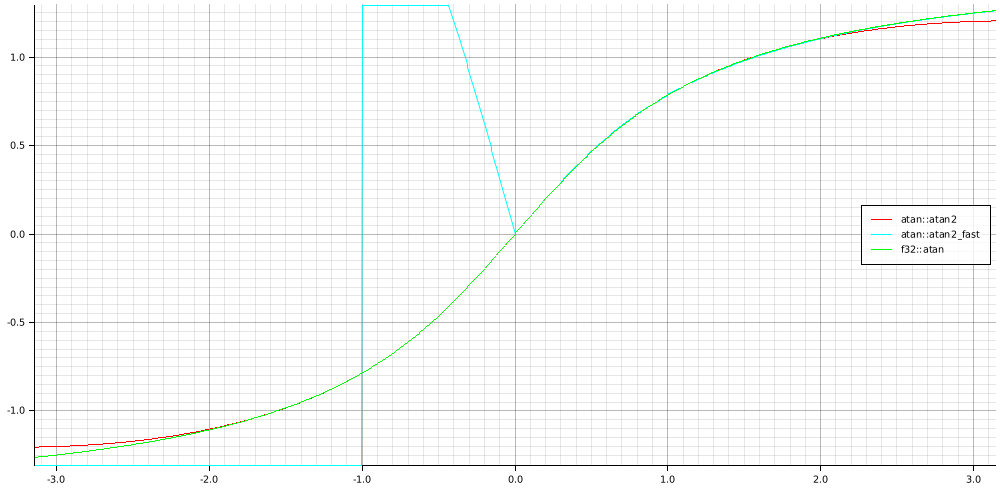
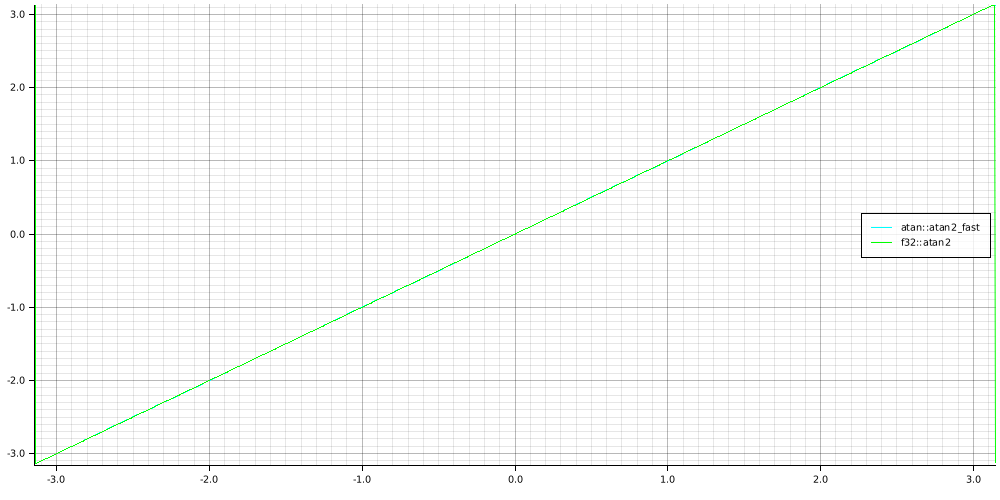
Corrected atan_fast implementation.

Changed region(s): [[0.0, 0.0, 1.0, 0.93]]

diff --git a/src/atan.rs b/src/atan.rs
@@ -138,8 +138,10 @@ pub fn atan2_fast<T>( y: T, x: T ) -> T
     let y_abs = y.abs();
     let x_abs = x.abs();
 
-    // Check which quadrant the result will land in.
+    let pi      = <T>::from_num( fixed::consts::PI );
+    let pi_half = <T>::from_num( fixed::consts::PI/2 );
 
+    // Check which quadrant the result will land in.
     if  y == 0
     {
         if  x.is_negative()
@@ -167,8 +169,7 @@ pub fn atan2_fast<T>( y: T, x: T ) -> T
             // Second octant.
             else
             {
-                let pi_half = <T>::from_num( fixed::consts::PI/2 );
-                return pi_half - atan_poly_2( y, x );
+                return pi_half -atan_poly_2( y, x );
             }
         }
         else
@@ -176,14 +177,12 @@ pub fn atan2_fast<T>( y: T, x: T ) -> T
             // Third octant.
             if T::from_num( 0.0 ) <= y_abs - x_abs
             {
-                let pi_half = <T>::from_num( fixed::consts::PI/2 );
                 return pi_half - atan_poly_2( y, x );
             }
             // Fourth octant.
             else
             {
-                let pi = <T>::from_num( fixed::consts::PI );
-                return super::sign(y)*pi*atan_poly_1( y, x );
+                return pi + atan_poly_1( y, x );
             }
         }
     }
@@ -198,14 +197,12 @@ pub fn atan2_fast<T>( y: T, x: T ) -> T
             // Fifth octant.
             if y_abs - x_abs < T::from_num( 0.0 )
             {
-                let pi = <T>::from_num( fixed::consts::PI );
-                return super::sign(y)*pi*atan_poly_1( y, x );
+                return atan_poly_1( y, x );
             }
             // Sixth octant.
             else
             {
-                let pi_half = <T>::from_num( fixed::consts::PI );
-                return - pi_half - atan_poly_2( y, x );
+                return - pi_half -atan_poly_2( y, x );
             }
         }
         else
@@ -213,13 +210,12 @@ pub fn atan2_fast<T>( y: T, x: T ) -> T
             // Seventh octant.
             if T::from_num( 0.0 ) <= y_abs - x_abs
             {
-                let pi_half = <T>::from_num( fixed::consts::PI );
-                return - pi_half - atan_poly_2( y, x );
+                return -pi_half - atan_poly_2( y, x );
             }
             // Eigth octant.
             else
             {
-                return atan_poly_1( y, x );
+                return -pi + atan_poly_1( y, x );
             }
         }
     }

diff --git a/tests/atan_comparison.rs b/tests/atan_comparison.rs
@@ -10,17 +10,17 @@ fn atan_comparison() -> Result<(), Box<dyn std::error::Error>>
     use fixed::FixedI32 as F;
     use fixed::types::extra::U20 as U;
     use std::f32::consts::PI as PI;
-
+    /*
     let atan2_series = LineSeries::new(
-        (-500..=500).map(|x| x as f32 *PI / 500.0).map(|x| (x, atan::atan2(F::<U>::from_num(x), F::<U>::from_num(1) ).to_num::<f32>() )),
+        (-500..=500).map(|x| x as f32 *PI / 500.0).map(|x| (x, atan::atan2(F::<U>::from_num(x.sin()), F::<U>::from_num(x.cos()) ).to_num::<f32>() )),
         &RED);
-    
+    */
     let atan2_fast_series = LineSeries::new(
-        (-500..=500).map(|x| x as f32 *PI / 500.0).map(|x| (x, atan::atan2_fast(F::<U>::from_num(x), F::<U>::from_num(1) ).to_num::<f32>() )),
+        (-500..=500).map(|x| x as f32 *PI / 500.0).map(|x| (x, atan::atan2_fast(F::<U>::from_num(x.sin()), F::<U>::from_num(x.cos()) ).to_num::<f32>() )),
         &CYAN);
     
     let std_atan_series = LineSeries::new(
-        (-500..=500).map(|x| x as f32 *PI / 500.0).map(|x| (x, x.atan() )),
+        (-500..=500).map(|x| x as f32 *PI / 500.0).map(|x| (x, f32::atan2(x.sin(),x.cos()) )),
         &GREEN);
 
     let root = BitMapBackend::new("figures/atan_comparisons.png", (1000, 500)).into_drawing_area();
@@ -30,16 +30,16 @@ fn atan_comparison() -> Result<(), Box<dyn std::error::Error>>
         .margin(5)
         .x_label_area_size(30)
         .y_label_area_size(30)
-        .build_cartesian_2d( -PI..PI, -1.3f32..1.3f32)?;
+        .build_cartesian_2d( -PI..PI, -PI..PI)?;
 
     chart.configure_mesh().draw()?;
-
+    /*
     // Draws a sinle line
     chart
         .draw_series( atan2_series )?
         .label("atan::atan2")
         .legend(|(x, y)| PathElement::new(vec![(x, y), (x + 20, y)], &RED));
-        
+    */  
     // Draws a sinle line
     chart
         .draw_series( atan2_fast_series )?
@@ -49,7 +49,7 @@ fn atan_comparison() -> Result<(), Box<dyn std::error::Error>>
     // Draws a sinle line
     chart
         .draw_series( std_atan_series )?
-        .label("f32::atan")
+        .label("f32::atan2")
         .legend(|(x, y)| PathElement::new(vec![(x, y), (x + 20, y)], &GREEN));
     
     /*

diff --git a/src/sqrt.rs b/src/sqrt.rs
@@ -44,7 +44,7 @@
 /// 
 /// ## Accuracy and Comparison
 /// 
-/// The figure below shows the comparison between the NIIRF implementation and the std-lib `std::f32::sqrt` implementation.
+/// The figure below shows the comparison between the NIIRF implementation, and `std::f32::sqrt` implementation.
 /// The Difference between the two is plotted as the error.
 /// 
 /// ![Alt version](https://github.com/ErikBuer/Fixed-Trigonometry/blob/main/figures/niirf_sqrt_comparison.png?raw=true)
